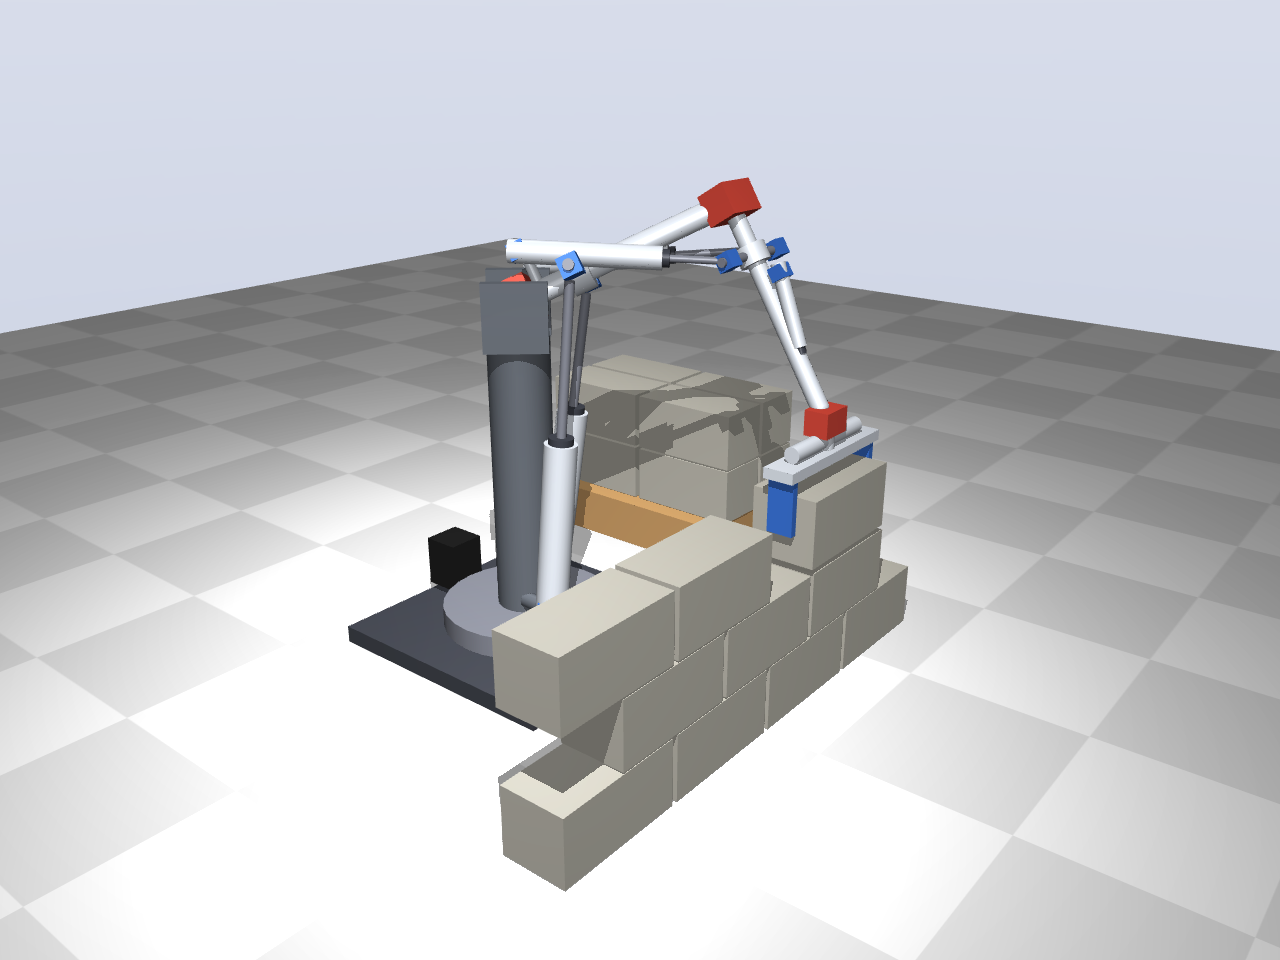
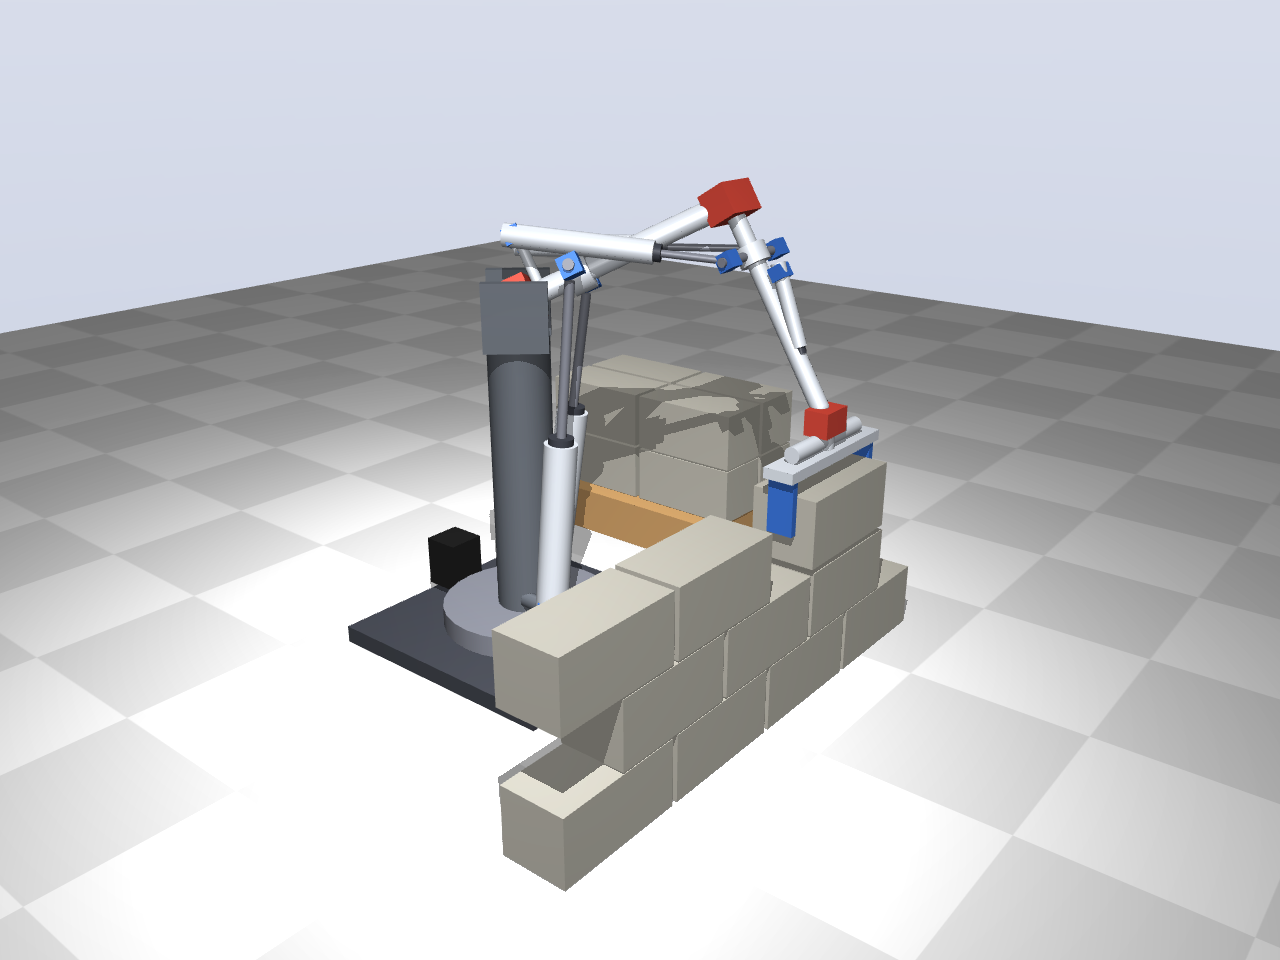
full-arm: clash check of the elbow (biceps layout) — the low-wall range is clash-free with rear pivots 12 cm up and 6 cm to the sides; roll ends at about ±45°

Changed region(s): [[0.375, 0.2188, 0.5625, 0.3125], [0.4688, 0.4375, 0.5625, 0.5], [0.4375, 0.4062, 0.5, 0.4375]]

diff --git a/full-arm/elbow_cad.py b/full-arm/elbow_cad.py
@@ -1,0 +1,171 @@
+"""Clash and stroke check of the elbow joint (biceps layout), CadQuery, in the upper-arm frame.
+
+    python full-arm/elbow_cad.py              # table over elbow pitch × forearm roll
+    python full-arm/elbow_cad.py --render     # also out/render_elbow_<pose>.png
+
+Frame: origin at the shoulder, x along the upper arm, y to the side, z up (the shoulder
+roll and pitch only move this frame as a whole). The elbow is at x = 500. The forearm
+attitude is Ry(pitch) · Rx(roll), as in elbow.py. Lengths in mm.
+
+Parts:
+- upper arm tube Ø50 with the shoulder hub (bar and cross blocks of the shoulder cylinders)
+- a post on top of the upper arm with a bar for the rear U-joints of the elbow cylinders
+- elbow: fork on the upper arm, yoke turning on the pitch pin, forearm shaft through it (roll)
+- forearm tube Ø40 with a hub: bar and cross blocks for the rod forks
+- two cylinders (body, rod, rod fork)
+"""
+import math
+import os
+import sys
+
+import cadquery as cq
+import numpy as np
+
+HERE = os.path.dirname(os.path.abspath(__file__))
+sys.path.insert(0, HERE)
+import elbow as K  # noqa: E402
+
+L1 = K.L1 * 1000
+ELBOW = np.array([L1, 0.0, 0.0])
+LOW = np.array([K.LOW_ALONG * 1000, 0.0, K.LOW_UP * 1000])     # rear bar centre
+LOW_SIDE, HUB_ALONG, HUB_SIDE = K.LOW_SIDE * 1000, K.HUB_ALONG * 1000, K.HUB_SIDE * 1000
+SHOULDER_HUB, SHOULDER_BAR = 150.0, 120.0
+BLOCK = 30.0                                  # cross blocks (elbow)
+CYL = dict(bore=50, body_d=62.0, rod_d=20.0, stroke=200.0, dead=190.0)   # Ø50 ISO 15552 with clevises (estimate)
+YOKE = dict(x=60.0, y=70.0, z=60.0)
+FORK_GAP = YOKE["y"] + 2.0
+
+
+def rot(pitch, roll):
+    return K.Ry(math.radians(pitch)) @ K.Rx(math.radians(roll))
+
+
+def cyl_between(a, b, r):
+    a, b = np.asarray(a, float), np.asarray(b, float)
+    d = b - a
+    return cq.Workplane(cq.Plane(origin=tuple(a), xDir=_perp(d), normal=tuple(d))).circle(r).extrude(float(np.linalg.norm(d))).val()
+
+
+def _perp(d):
+    d = d / np.linalg.norm(d)
+    t = np.array([0, 0, 1.0]) if abs(d[2]) < 0.9 else np.array([1.0, 0, 0])
+    p = np.cross(d, t)
+    return tuple(p / np.linalg.norm(p))
+
+
+def box(c, size, R=np.eye(3)):
+    b = cq.Workplane("XY").box(*size).val()
+    m = cq.Matrix([[R[0, 0], R[0, 1], R[0, 2], c[0]], [R[1, 0], R[1, 1], R[1, 2], c[1]], [R[2, 0], R[2, 1], R[2, 2], c[2]]])
+    return b.transformGeometry(m)
+
+
+def frame(x_dir, y_dir):
+    x = x_dir / np.linalg.norm(x_dir)
+    y = y_dir - (y_dir @ x) * x
+    y /= np.linalg.norm(y)
+    return np.column_stack([x, y, np.cross(x, y)])
+
+
+# --- fixed to the upper arm ---------------------------------------------------------------
+def upper_parts():
+    p = {}
+    p["upper_tube"] = cyl_between((40, 0, 0), (L1 - 60, 0, 0), 25)
+    p["shoulder_hub"] = cyl_between((SHOULDER_HUB - 25, 0, 0), (SHOULDER_HUB + 25, 0, 0), 42).fuse(
+        cyl_between((SHOULDER_HUB, -SHOULDER_BAR - 30, 0), (SHOULDER_HUB, SHOULDER_BAR + 30, 0), 12))
+    for s in (1, -1):
+        p[f"shoulder_block_{s}"] = box((SHOULDER_HUB, s * SHOULDER_BAR, 0), (44, 44, 44))
+    p["post"] = cyl_between((LOW[0], 0, 0), LOW + np.array([0, 0, 12]), 14).fuse(
+        cyl_between(LOW + np.array([0, -LOW_SIDE - 22, 0]), LOW + np.array([0, LOW_SIDE + 22, 0]), 10))
+    t = 12.0
+    for s in (1, -1):                         # elbow fork cheeks around the yoke
+        y0 = s * (FORK_GAP / 2 + t / 2)
+        cheek = box((L1 - 25, y0, 0), (50, t, 80)).fuse(cyl_between((L1, y0 - t / 2, 0), (L1, y0 + t / 2, 0), 40))
+        p[f"fork_{s}"] = cheek
+    return p
+
+
+# --- moving with the forearm --------------------------------------------------------------
+def forearm_parts(pitch, roll):
+    R = rot(pitch, roll)
+    Rp = rot(pitch, 0.0)
+    p = {"yoke": box(ELBOW, (YOKE["x"], YOKE["y"], YOKE["z"]), Rp)}
+    xf, yf = R[:, 0], R[:, 1]
+    p["fore_tube"] = cyl_between(ELBOW + 30 * xf, ELBOW + 480 * xf, 20)
+    hub = ELBOW + HUB_ALONG * xf
+    p["fore_hub"] = cyl_between(hub - 20 * xf, hub + 20 * xf, 34).fuse(
+        cyl_between(hub - (HUB_SIDE + BLOCK / 2 + 6) * yf, hub + (HUB_SIDE + BLOCK / 2 + 6) * yf, 10))
+    for s in (1, -1):
+        p[f"fore_block_{s}"] = box(hub + s * HUB_SIDE * yf, (BLOCK, BLOCK, BLOCK), frame(xf, yf))
+    return p
+
+
+def cylinders(pitch, roll):
+    """Body, rod and rod fork of both cylinders; lengths."""
+    R = rot(pitch, roll)
+    xf, yf = R[:, 0], R[:, 1]
+    hub = ELBOW + HUB_ALONG * xf
+    p, lengths = {}, []
+    for s in (1, -1):
+        lo = LOW + np.array([0, s * LOW_SIDE, 0])
+        h = hub + s * HUB_SIDE * yf
+        c = (h - lo) / np.linalg.norm(h - lo)
+        L = float(np.linalg.norm(h - lo))
+        lengths.append(L)
+        body_end = lo + (CYL["dead"] - 60 + CYL["stroke"] - 40) * c       # body stops short of the rod eye
+        p[f"cyl_body_{s}"] = cyl_between(lo + 15 * c, body_end, CYL["body_d"] / 2)
+        fork_base = h - (BLOCK / 2 + 14) * c
+        p[f"cyl_rod_{s}"] = cyl_between(body_end, fork_base, CYL["rod_d"] / 2)
+        j = np.cross(yf * s, c)
+        j /= np.linalg.norm(j)
+        Rc = frame(c, j)
+        fork = box(fork_base + 3 * c, (6, BLOCK + 2 * 9, 22), Rc)
+        for k in (1, -1):
+            fork = fork.fuse(box(h + k * (BLOCK / 2 + 5) * j - 0 * c + 2 * c, (BLOCK + 22, 6, 22), Rc))
+        p[f"cyl_fork_{s}"] = fork
+        p[f"low_block_{s}"] = box(lo, (BLOCK, BLOCK, BLOCK), frame(c, np.array([0, 1.0, 0])))
+    return p, lengths
+
+
+PAIRS = [("cyl", "upper_tube"), ("cyl", "shoulder"), ("cyl", "fork"), ("cyl", "yoke"), ("cyl", "fore_tube"),
+         ("cyl", "fore_hub"), ("cyl_body_1", "cyl_body_-1"), ("cyl_rod", "fore_block"), ("fore", "fork"),
+         ("fore_block", "upper_tube"), ("fore_hub", "upper_tube"), ("fore_tube", "upper_tube"),
+         ("low_block", "cyl_rod"), ("cyl_fork", "fore_tube")]
+
+
+def check(pitch, roll, upper=None):
+    upper = upper or upper_parts()
+    parts = dict(upper)
+    parts.update(forearm_parts(pitch, roll))
+    cyl, lengths = cylinders(pitch, roll)
+    parts.update(cyl)
+    found = set()
+    for a, b in PAIRS:
+        for na, sa in parts.items():
+            for nb, sb in parts.items():
+                if na != nb and na.startswith(a) and nb.startswith(b):
+                    key = tuple(sorted((na, nb)))
+                    if key in found:
+                        continue
+                    if sa.intersect(sb).Volume() > 1.0:
+                        found.add(key)
+    return sorted(f"{a}/{b}" for a, b in found), lengths
+
+
+def main():
+    lo, hi = CYL["dead"] + CYL["stroke"], CYL["dead"] + 2 * CYL["stroke"]       # pin to pin, retracted / extended
+    print(f"elbow cylinders Ø{CYL['bore']} × {CYL['stroke']:.0f}: pin-to-pin {lo:.0f}–{hi:.0f} mm (dead length estimated), "
+          f"rear pivots {LOW[0]:.0f} mm along and {LOW[2]:.0f} mm above the upper arm")
+    upper = upper_parts()
+    pitches = [int(a) for a in sys.argv[1].split(",")] if len(sys.argv) > 1 and sys.argv[1][0] in "-0123456789" else (-120, -105, -90, -75, -60, -45, -30)
+    for pitch in pitches:
+        row = []
+        for roll in (-65, -45, 0, 45, 65):
+            clash, L = check(pitch, roll, upper)
+            ok_len = all(lo + 2 <= x <= hi - 2 for x in L)
+            tag = "ok" if not clash and ok_len else ("LEN " if not ok_len else "") + ",".join(c.replace("cyl_", "") for c in clash)
+            row.append(f"{roll:+d}: {tag} [{min(L):.0f}-{max(L):.0f}]")
+        print(f"pitch {pitch:4d}: " + " | ".join(row))
+
+
+if __name__ == "__main__":
+    main()

diff --git a/full-arm/elbow.py b/full-arm/elbow.py
@@ -23,9 +23,10 @@ WALL_X = 0.6                                 # low wall: 3 blocks wide, 3 course
 BLOCK_H = 0.15
 
 # elbow cylinders (concept): lying on top of the upper arm like a biceps, rear pivots 6 cm
-# from the shoulder and 8 cm above the arm axis (clear of the shoulder hub); cross blocks
+# from the shoulder, 12 cm above the arm axis and 6 cm to the sides (clear of the shoulder
+# hub and its cross blocks); cross blocks
 # on a forearm hub 12 cm from the elbow
-LOW_ALONG, LOW_SIDE, LOW_UP = 0.06, 0.09, 0.08
+LOW_ALONG, LOW_SIDE, LOW_UP = 0.06, 0.06, 0.12
 HUB_ALONG, HUB_SIDE = 0.12, 0.09
 WALL_Y = (-0.3, 0.0, 0.3)
 COURSES = 3

diff --git a/full-arm/README.md b/full-arm/README.md
@@ -37,17 +37,18 @@ Required for 9 block positions (3 along the wall, 3 courses), 15 kg block + 3 kg
 | Elbow pitch | −101° … −64° (forearm steep) |
 | Forearm roll | ±42° |
 | Wrist pitch | 59° … 78° |
-| Elbow cylinders, pin to pin | 434–570 mm (136 mm of stroke used) |
-| Elbow cylinder force | ≤ 179 N push: 18% of Ø50, 29% of Ø40 at 5 bar |
+| Elbow cylinders, pin to pin | 454–582 mm (128 mm of stroke used) |
+| Elbow cylinder force | ≤ 187 N push: 19% of Ø50, 30% of Ø40 at 5 bar |
 
 - **Feasible.** Both rolls stay well within the ±65° of the cross block joint.
 - The rolls grow with the base yaw: for a wall 1.2 m wide (base yaw ±42° at the ends of a
   wall 0.5 m away) the shoulder needs up to ±86° and the forearm ±69°, beyond the
   joint. For wider walls the base moves along the wall, or the gripper gets its own
   rotation about the vertical (a small motor; no gravity torque there).
-- The cylinders lie on top of the upper arm (rear pivots 6 cm from the shoulder, 8 cm
-  above the arm axis, clear of the shoulder hub), on a forearm hub 12 cm from the elbow.
-  Long enough for a Ø40–50 × 150–200 cylinder.
+- The cylinders lie on top of the upper arm (rear pivots 6 cm from the shoulder, 12 cm
+  above the arm axis and 6 cm to the sides, clear of the shoulder hub and its cross
+  blocks), on a forearm hub 12 cm from the elbow. A Ø50 × 200 (pin to pin ≈ 390–590 mm)
+  covers the lengths.
 - Ø40 is enough for the low wall (forearm steep). With the forearm horizontal the elbow
   needs up to ≈ 80 Nm, then Ø50.
 
@@ -55,10 +56,30 @@ Required for 9 block positions (3 along the wall, 3 courses), 15 kg block + 3 kg
 
 ![Front](out/render_concept_front.png)
 
+### Clash check (`python full-arm/elbow_cad.py`)
+
+CadQuery model of the elbow region in the upper-arm frame: upper arm with the shoulder hub
+and its cross blocks, the post with the rear U-joints, the elbow fork and yoke, the forearm
+hub with cross blocks, and the two cylinders with rod forks.
+
+| Elbow pitch | Roll 0° | Roll ±42–45° | Roll ±65° |
+|---|---|---|---|
+| −110° | ok | rod fork touches the forearm hub | many clashes, too short |
+| −100° | ok | ok at ±42°, rod fork touches the hub at ±45° | cylinder bodies on the upper arm and shoulder hub |
+| −90° … −64° | ok | ok | cylinder bodies on the upper arm and shoulder hub |
+| −50° | ok | stroke too short | stroke too short, clashes |
+
+- **The low wall works:** its whole range (pitch −101° … −64°, roll ±42°) is clash-free and
+  within the stroke.
+- **But the margin is small.** The forearm roll of this layout ends at about ±45°, not the
+  ±65° of the shoulder: when rolling, one cylinder dives onto the upper arm and the rod fork
+  comes close to the forearm hub.
+- Next to compare: the cylinders behind the elbow, pulling a short lever on the back of the
+  forearm (like a triceps, or the stick cylinder of an excavator). They then never cross
+  the elbow, which leaves more room for the roll.
+
 ## Open
 
-- Clash check of the elbow joint (cross blocks and cylinders over the roll range), as for
-  test 2.
 - Reach: with 2 × 0.5 m the arm builds a low wall from one spot; more needs a longer arm
   or a base that moves.
 - Gripper for blocks versus a tool mount for light tasks.
